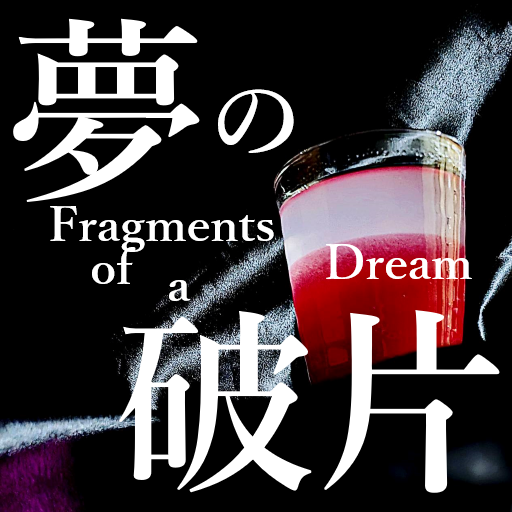
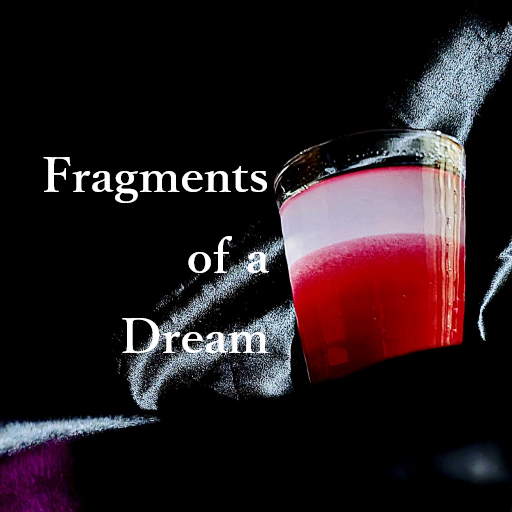
Add files via upload

Changed region(s): [[0.0, 0.0312, 0.5938, 0.5938], [0.2188, 0.5938, 0.9688, 0.9688], [0.625, 0.4688, 0.9375, 0.5625]]

diff --git a/js/default-main.js b/js/default-main.js
@@ -3,7 +3,7 @@
 $(document).ready(function () {
     $("#update").html(
         '<div id="update-title">' + 
-            '<a href="update.html">2025/04/27</a>' +
+            '<b>UP DATE</b>：<a href="update.html">2025/04/28</a>' +
             '<button id="reloadButton">' +
                 '<svg xmlns="http://www.w3.org/2000/svg" width="23" height="23" viewBox="0 0 24 24">' +
                     '<path d="M8 5l7 7-7 7" fill="none" stroke="black" stroke-width="2"/>' +
@@ -22,22 +22,17 @@ $(document).ready(function () {
 	$("#hp-rule").html(
 			'<div id="hp-rule-content">' +
 				'<ul>' +
-					'<li>' + '推薦ブラウザ―はchromeです。' + '</li>' +
-					'<li>' + '完全オリジナルですが<B>尊敬している作品の影響を受けている</B>可能性があります。' + '</li>' +
-					'<li>' + '作品をサンプル活用、二次創作は大歓迎です。' + '</li>' +
-					'<li>' + 'サンプル活用・二次創作をする場合は、「原作者名」もしくは「夢の破片」の記載をお願いいたします。' + '</li>' +
-					'<li>' + '作品のおおまかな筋を変えなければ、キャラクターの関係性・名前・エンドの変更は好きにしていただいてかまいません。' + '</li>' +
-					'<li>' + '商用のみ、メールにて報告をお願いいたします。' + '</li>' +
-					'<li>' + 'メールは確認のみで個人情報を流布することはいたしません。' + '</li>' +
-					'<li>' + 'メールアドレスはBIOGRAPHYから確認をしてください。' + '</li>' +
-					'<li>' + '更新頻度は遅いと思うので、BIOGRAPHYにあるXから確認をしてください。' + '</li>' +
-					'<li>' + 'サンプル利用・二次創作をしていただいたURLがある場合、リンクを貼らせていただく場合がございます。' + '</li>' +
-					'<li>' + 'ホーム画面に追加することも可能です。' + '</li>' +
-					'<li>' + '変化がなければ時間を置くか、日付横にある＞を押してください。' + '</li>' +
+					'<li>' + '作品のサンプル利用や二次創作は歓迎です。' + '</li>' +
+					'<li>' + 'その際は、「霞影 絃音」または「夢の破片」の記載をお願いします。' + '</li>' +
+					'<li>' + 'キャラクターやエンディングの変更は自由ですが、物語の大筋は変えないでください。' + '</li>' +
+					'<li>' + '※商用利用の場合、事前にメールでご報告をお願いします。<br />メールアドレスはBIOGRAPHYページから確認できます。<br />個人情報は流布しません。' + '</li>' +
+					'<li>' + '最新情報はBIOGRAPHYのX（旧Twitter）で確認できます。<br />変化がない場合は時間を置くか、日付横の「＞」を押してください。' + '</li>' +
+					'<li>' + '更新履歴は日付をタップするか、<a href="update.html" style="text-decoration: underline;">こちら</a>からご確認いただけます。' + '</li>' +
 				'</ul>' +
 			'</div>'
 	);
 });
+
 /*---------------------------------------------------------------------------------------------------------*/
 $(document).ready(function () {
 	$("#bio").html(
@@ -50,7 +45,11 @@ $(document).ready(function () {
 				'<dd>' +
 						'2000年ほどから活動を始める。<BR />' +
 						'25年までの間に様々なことがあり、他者との関わりをやめる。<BR />' +
+						'<p>' +
 						'尊敬している作品が自分の一部の作品に反映されることに悩んでいる。' +
+						'キャラクターを作って舞台を用意しているため、プロットが作れないで居る。' +
+						'</p>' +
+						'2025/4 下旬　綺麗な作品が出来てファビコンとかアイコンにして満足している。' +
 				'</dd>' +
 			'<dt>' + 'SNS' + '</dt>' +
 				'<dd>' +
@@ -103,20 +102,23 @@ $(document).ready(function () {
 					'<div class="links-copy-title">' + '著作者' + '</div>' +
 						'<div class="links-copy-button">' + '<button class="links-button" data-clipboard-text="霞影 絃音">霞影 絃音</button>' + '<button class="links-button" data-clipboard-text="Itone Kaei">Itone Kaei</button>' + '</div>' +
 				'</dd>' +
-			'<dt>' + 'SHORTCUT ICON' + '</dt>' +
+			'<dt>' + 'Bunner' + '</dt>' +
 				'<dd>' +
-					'<button id="install-button" style="display:none;">インストール</button>' +
-						'<div class="text-small">' + '※「インストール」が出てこない場合、ブラウザや端末に従ってショートカットアイコンを作成願います。' + '</div>' +
+					'<img src="https://wasteland-rose.github.io/Fragments-of-a-dream/images/bunner.png" style="margin-right: 20px; height: 80px;">' +
+					'<img src="https://wasteland-rose.github.io/Fragments-of-a-dream/images/bunner_2.png" style="height: 80px;"><BR />' +
+					'ご使用の際は画像を保存して、好きなサイズに変更してください。' +
 				'</dd>' +
 			'<dt>' + 'FREE IMAGES' + '</dt>' +
 				'<dd>' +
 					'<a href="https://ja.pngtree.com/freepng/marble-texture-pattern_5420622.html" target="_blank">大理石画像</a>' + '<BR />' +
 					'<a href=https://jp.freepik.com/free-photo/shattered-glass-texture_27504247.htm#fromView=keyword&page=1&position=0&uuid=fa9103e5-a775-459f-9d30-3d85a703a8ce&query=%E5%89%B2%E3%82%8C%E3%81%9F%E3%82%AC%E3%83%A9%E3%82%B9" target="_blank">割れる画像</a>' + '<BR />' +
+						'<div class="text-small">' + '※外部サイトに移行します。' + '</div>' +
 				'</dd>' +
 			'<dt>' + 'SNS' + '</dt>' +
 				'<dd>' +
 					'<a href="https://mypage.syosetu.com/2894478/" target="_blank">小説家になろう</a>' + '<BR />' +
 					'<a href="https://www.pixiv.net/users/115809683" target="_blank">pixiv</a>' +
+						'<div class="text-small">' + '※外部サイトに移行します。' + '</div>' +
 				'</dd>' +
 		'</dl>'
 	);

diff --git a/js/main-text-content.js b/js/main-text-content.js
@@ -27,22 +27,23 @@ $(document).ready(function () {
 	);
 });
 /*------------------------------------------------------------------------------------------
+		black,red,blue,green,orange,pink,purple
+		A15,R18,Gro,Ero,Death,Horror,Unown,Flow,Love,Drama,BL,GL,NL
 	------------------------------------------------------------------------------------------*/
 $("#text-content").html(
-				/*-----------
-	'<div class="content Drama Love">' +
+				/*--------------------*/
+	'<div class="content Love">' +
 		'<div class="main_content_purple">' +
-			'<div class="main_title_purple">' + '<a href="#">月夜</a>' + '</div>' +
+			'<div class="main_title_purple">' + '<a href="main/moonlit_night.html">月夜</a>' + '</div>' +
 					'<div class="content_tag_purple">' +
-						'ドラマ / 恋愛' +
+						'恋愛' +
 					'</div>' +
 				'<div class="main_summary_purple">' +
 					'「友達の家に行く約束をした」<BR />そこから始まる切なさ有りの現代ファンタジー' +
 				'</div>' +
-				'<div class="writing_day_purple">' + '執筆日：執筆中' + '</div>' +
+				'<div class="writing_day_purple">' + '執筆日：2025/04/29' + '</div>' +
 		'</div>' +
 	'</div>' +
-				--------------------*/
 				/*--------------------*/
 	'<div class="content Drama Horror">' +
 		'<div class="main_content_black">' +

diff --git a/js/update.js b/js/update.js
@@ -5,9 +5,13 @@ $(document).ready(function () {
     $("#update").html(
             '<div id="update-content">' +
                 '<dl>' +
+                	'<dt>2025/04/28</dt>' +
+					'<dd>' +
+                		'「月夜」公開<BR />小説家になろう・pixivにも投稿<BR />HPバナーをLINKSに追加' +
+                	'</dd>' +
                 	'<dt>2025/04/27</dt>' +
 					'<dd>' +
-                		'「言葉は要らず」公開<BR />小説家になろう・pixivに登録、LINKにページを追加' +
+                		'「言葉は要らず」公開<BR />小説家になろう・pixivに登録、LINKSにページを追加' +
                 	'</dd>' +
                 	'<dt>2025/04/26</dt>' +
                 	'<dd>' +

diff --git a/css/main/main-decoration.css b/css/main/main-decoration.css
@@ -21,7 +21,7 @@
 #decoration span.five::before {
 	content: "―――――";
 }
-	#decoration span.two,#decoration span.three,#decoration span.four,#decoration span.five,#decoration span.three-reader {
+	#decoration span.two,#decoration span.three,#decoration span.four,#decoration span.five,#decoration span.three-reader_three,#decoration span.three-reader_two  {
 		margin: 0 2px;
 		letter-spacing: -0.1px;
 	}
@@ -35,6 +35,10 @@
 	font-weight: 600;
 }
 
-#decoration span.three-reader::before {
+#decoration span.three-reader_three::before {
 	content: "………";
+}
+
+#decoration span.three-reader_two::before {
+	content: "……";
 }

diff --git a/main/moonlit_night.html b/main/moonlit_night.html
@@ -135,7 +135,7 @@
 　苛立ち気味の友達との会話を楽しく感じ、自然と笑みが浮かぶ。<BR />
 　場所の特徴を言えば理解したようで、どうやら迎えに来てくれるらしい。<BR />
 　歩いている最中、背後から声が聞こえた気がした。<BR />
-風に攫われるその言葉に気付き、振り向いてみても誰も居なかった。<BR /><BR />
+風に攫われるその声に反応し、振り向いて見ても誰も居なかった。<BR /><BR />
 
 
 "またね"
